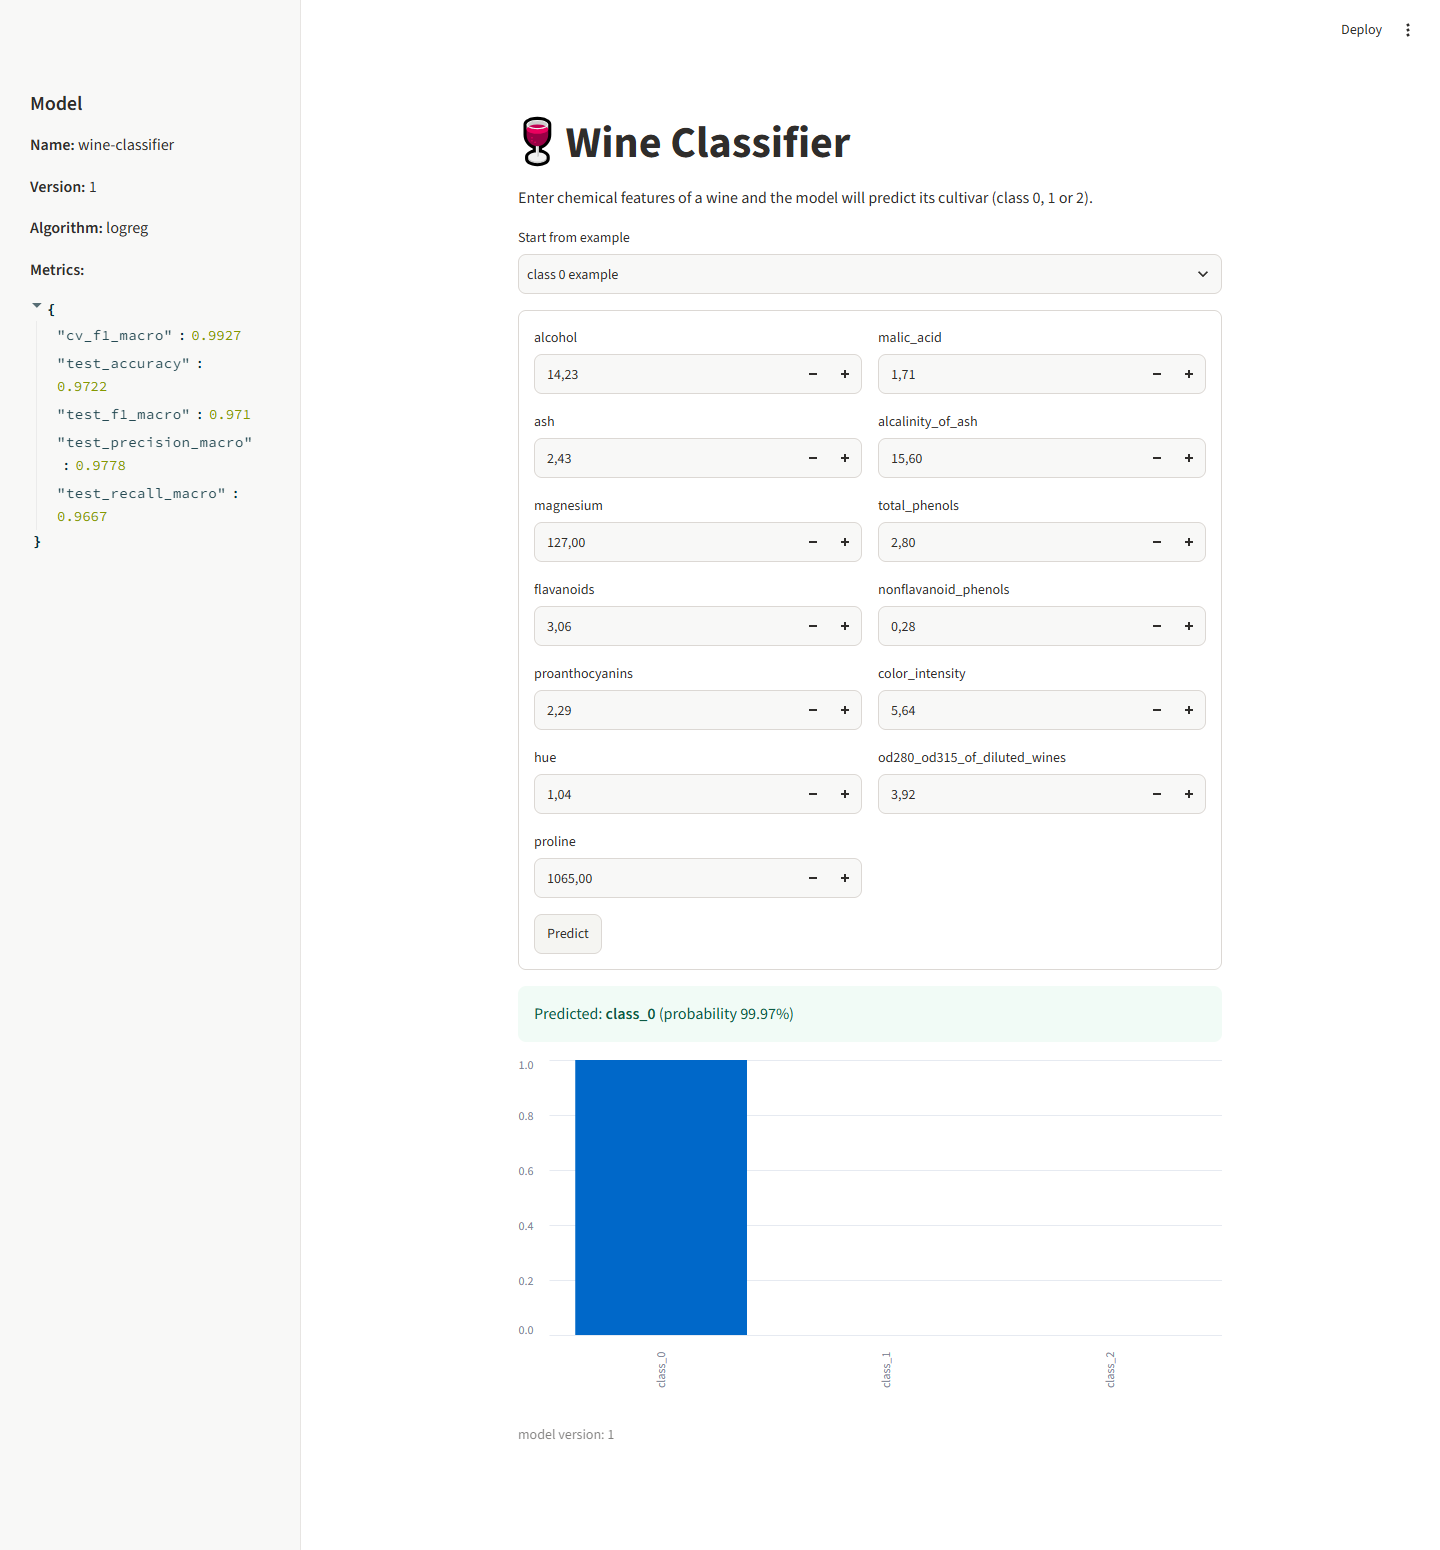
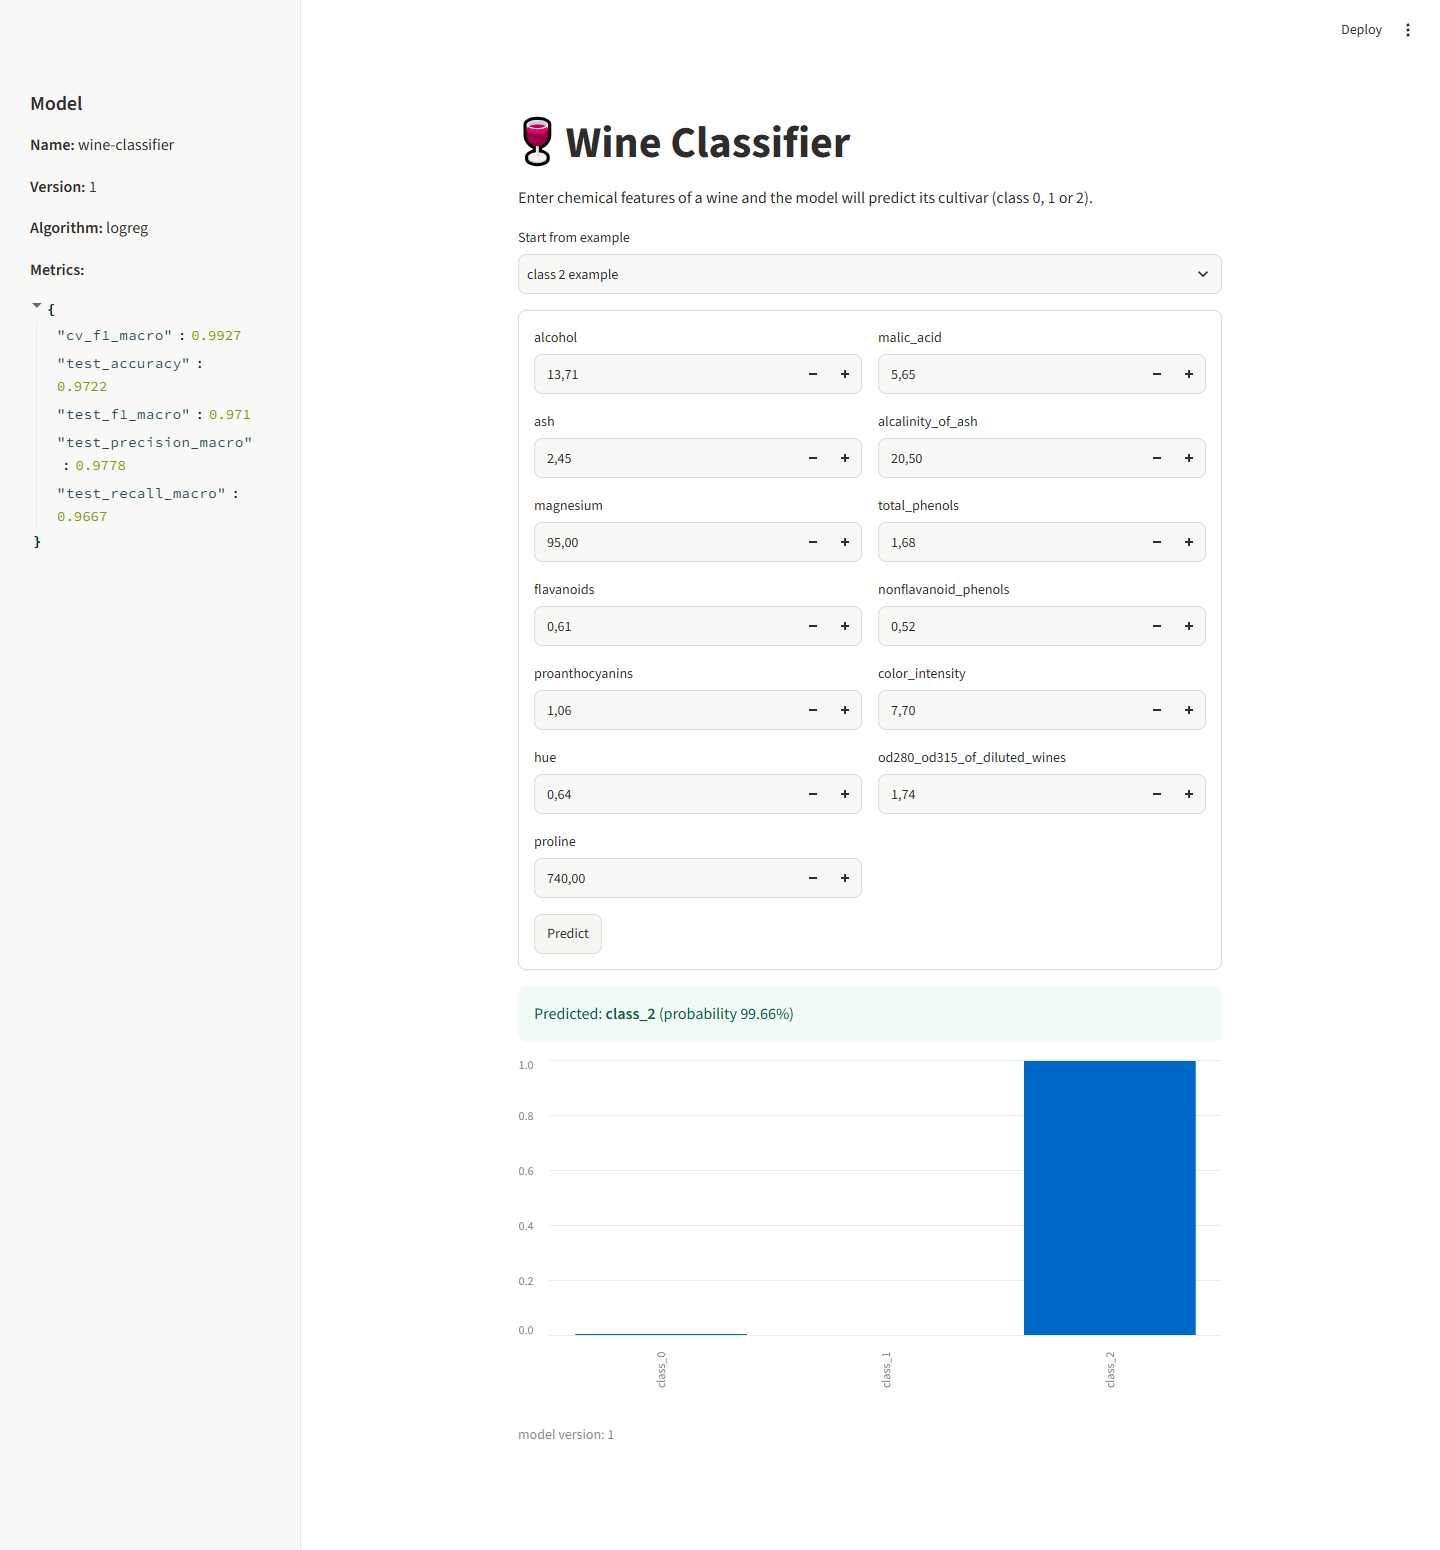
Add Docker screenshots

Changed region(s): [[0.6875, 0.6813, 0.8438, 0.8671], [0.375, 0.6813, 0.5312, 0.8671], [0.375, 0.3406, 0.4062, 0.3716]]

diff --git a/README.md b/README.md
@@ -184,6 +184,10 @@ Example response of `/predict`:
 
 ![predict](screenshots/07_api_predict.png)
 
-**Streamlit frontend**
+**Streamlit frontend** (running in docker compose, talks to API by `http://api:8000`)
 
 ![streamlit](screenshots/08_streamlit.png)
+
+**docker compose** — API and frontend containers are running together
+
+![docker compose](screenshots/09_docker_compose.png)
